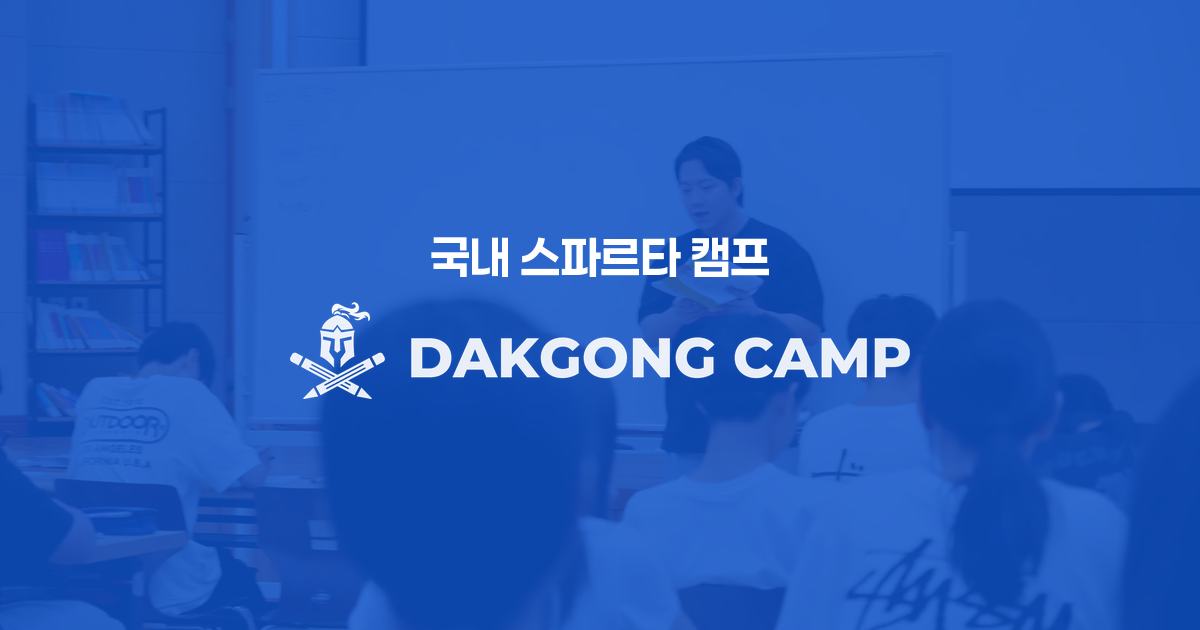
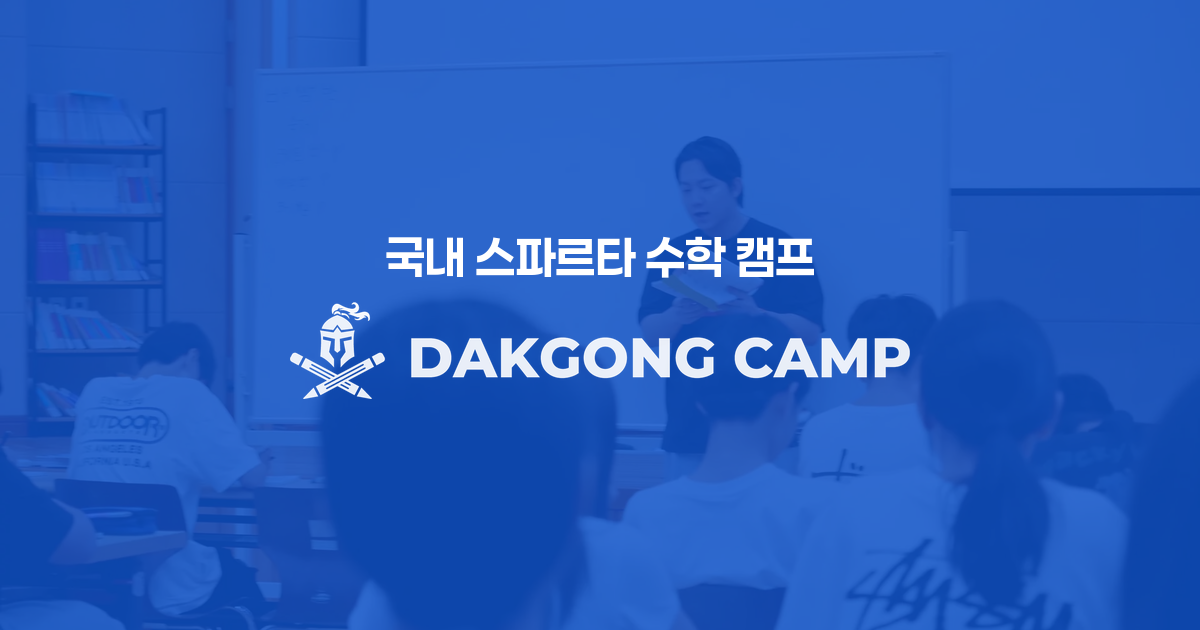
공유 카드 문구 — 「닥공캠프 | 국내 스파르타 수학 캠프」 (회장 지시)
카드 제목줄(og:title)과 이미지 안 문구를 함께 바꿨다. 둘이 다르면
카드 한 장 안에서 이름이 두 가지로 읽힌다.

이미지 안은 「국내 스파르타 수학 캠프」 — 브랜드명은 바로 아래 로고가
이미 말하고 있어 겹쳐 쓰지 않았다.

<title>(브라우저 탭·검색결과 제목)은 건드리지 않았다. 검색 유입 문구라
성격이 다르고, 지시는 썸네일에 대한 것이었다.

오버레이 85% 유지 — 흰 글자 대비 최악 5.02:1 재확인.

Changed region(s): [[0.3083, 0.3619, 0.6783, 0.4524]]

diff --git a/index.html b/index.html
@@ -19,7 +19,9 @@
 <meta property="og:site_name" content="닥공캠프 국내 스파르타 캠프">
 <meta property="og:locale" content="ko_KR">
 <meta property="og:url" content="https://dakgongcamp-korea.com/">
-<meta property="og:title" content="닥공캠프 국내 스파르타 캠프 | 한국 스파르타 방학 캠프">
+<!-- ★2026-08-25 회장 지시 — 공유 카드 제목만 이 문구로. 브라우저 탭·검색결과
+     제목(<title>)은 검색 유입 문구라 건드리지 않았다. -->
+<meta property="og:title" content="닥공캠프 | 국내 스파르타 수학 캠프">
 <meta property="og:description" content="닥공캠프 한국 스파르타 캠프 — 수학 중심 압도적 학습량, SKY·의대 선배 멘토링, 24시간 관리형 자기주도 학습, 무너지지 않는 생활 루틴.">
 <meta property="og:image" content="https://dakgongcamp-korea.com/assets/images/og-image.png">
 <meta property="og:image:width" content="1200">
